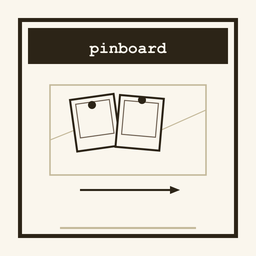
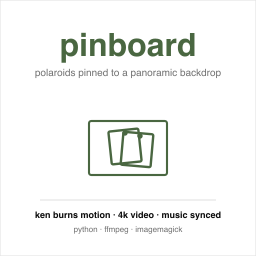
feat: brand kit + CODEOWNERS + reference deviations
Brings pinboard into conformance with the dunn.dev reference standards.
Repository check reports 8/8 PASS; design-system + pipeline gaps
are registered as permanent deviations (no HTML surface, no CI by
design — iteration is local on the operator's machine).

Brand kit (canonical estate look — white canvas, moss accent):
- avatar.svg + hero.svg + favicon.svg — single 64-unit glyph
  composition rendered at three scales per the repository SKILL's
  one-glyph-three-sizes rule
- avatar.png + brand.png — regenerated via reference's
  repository/scripts/brand.sh

Repository skeleton:
- CODEOWNERS — single line `* @adunn-dev`
- README.md now opens with `![hero](hero.svg)` per the repository
  standard
- .deviations.yaml registers design-system + pipeline deviations
  with permanent expiration (the underlying causes are structural)

GitLab project avatar synced.

Changed region(s): [[0.0625, 0.0625, 0.9375, 0.9375], [0.3125, 0.7188, 0.7188, 0.7812]]

diff --git a/README.md b/README.md
@@ -1,3 +1,5 @@
+![hero](hero.svg)
+
 # Pinboard
 
 Ken Burns-style video generator that composites photos as vintage Polaroids on
